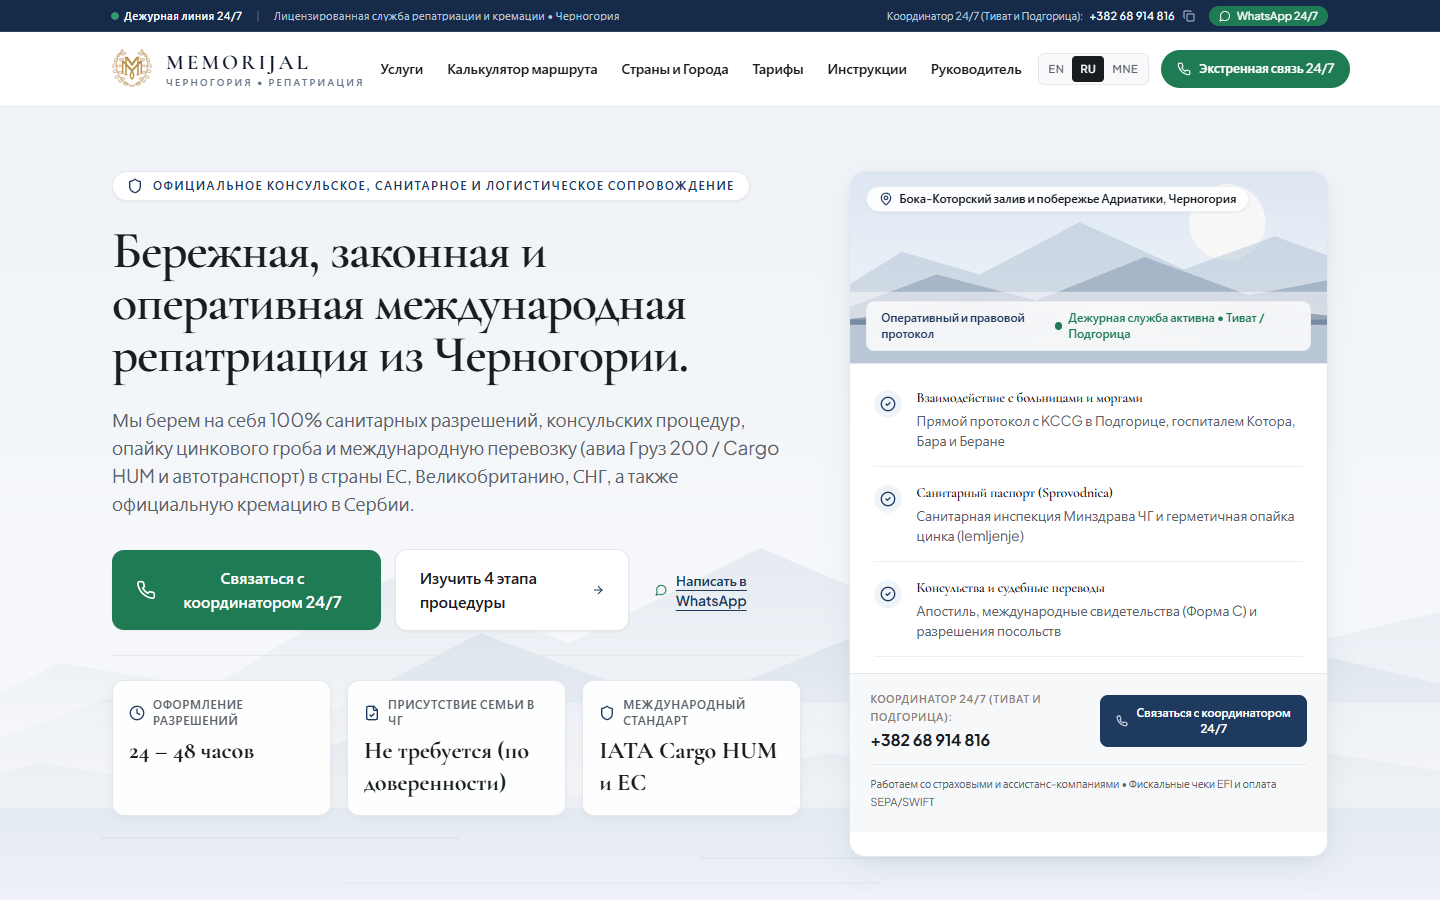
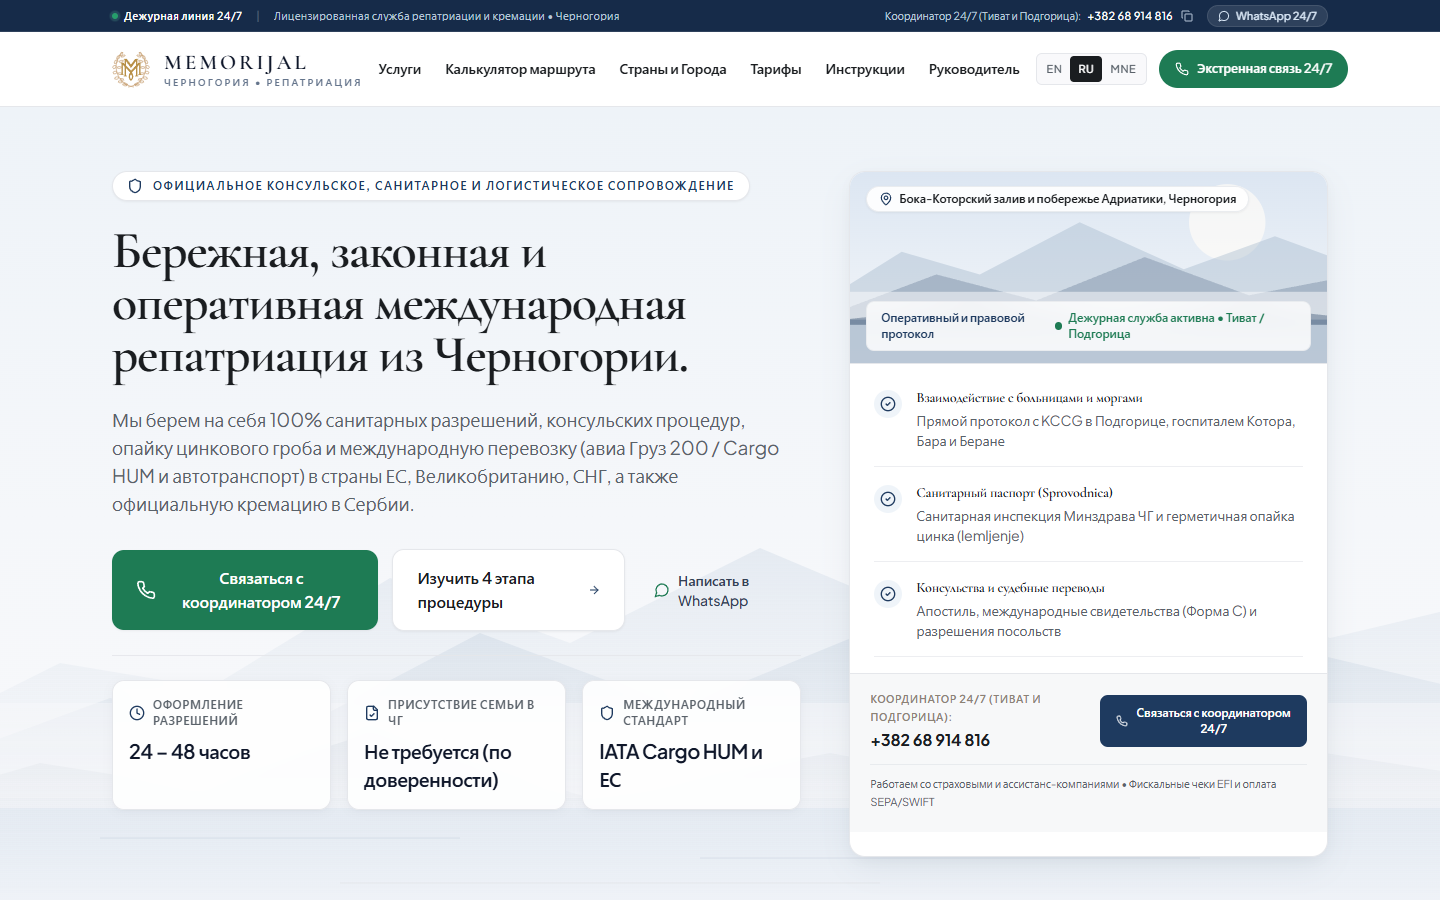
feat: add Hero and Navbar components with localized translations and audit snapshots

diff --git a/src/components/Hero.tsx b/src/components/Hero.tsx
@@ -157,10 +157,10 @@ export const Hero: React.FC<HeroProps> = ({ lang, t, onOpenModal }) => {
                 href={whatsappUrl}
                 target="_blank"
                 rel="noopener noreferrer"
-                className="inline-flex items-center justify-center gap-2 text-sm font-semibold text-sapphire hover:text-sapphire-light px-3 py-3 transition-colors"
+                className="inline-flex items-center justify-center gap-2 text-slate-700 hover:text-forest text-sm font-medium transition-colors px-3.5 py-3.5 rounded-xl hover:bg-slate-100/70 border border-transparent hover:border-stoneBorder no-underline"
               >
-                <MessageCircle className="w-4 h-4 text-forest" />
-                <span className="underline underline-offset-4">{t.hero.whatsappDirect}</span>
+                <MessageCircle className="w-4 h-4 text-forest shrink-0" />
+                <span>{t.hero.whatsappDirect}</span>
               </a>
             </div>
 
@@ -171,9 +171,9 @@ export const Hero: React.FC<HeroProps> = ({ lang, t, onOpenModal }) => {
                   <Clock className="w-4 h-4 text-sapphire shrink-0" />
                   <span>{t.hero.trustMetrics.timeLabel}</span>
                 </div>
-                <p className="mt-1.5 font-serif text-2xl font-bold text-slateDeep">
+                <div className="mt-2 font-sans font-semibold text-slate-900 text-lg sm:text-xl tracking-tight leading-tight">
                   {t.hero.trustMetrics.timeValue}
-                </p>
+                </div>
               </div>
 
               <div className="bg-white/90 backdrop-blur-sm p-4 rounded-xl border border-stoneBorder shadow-card">
@@ -181,9 +181,9 @@ export const Hero: React.FC<HeroProps> = ({ lang, t, onOpenModal }) => {
                   <FileCheck className="w-4 h-4 text-sapphire shrink-0" />
                   <span>{t.hero.trustMetrics.presenceLabel}</span>
                 </div>
-                <p className="mt-1.5 font-serif text-2xl font-bold text-slateDeep">
+                <div className="mt-2 font-sans font-semibold text-slate-900 text-lg sm:text-xl tracking-tight leading-tight">
                   {t.hero.trustMetrics.presenceValue}
-                </p>
+                </div>
               </div>
 
               <div className="bg-white/90 backdrop-blur-sm p-4 rounded-xl border border-stoneBorder shadow-card">
@@ -191,9 +191,9 @@ export const Hero: React.FC<HeroProps> = ({ lang, t, onOpenModal }) => {
                   <Shield className="w-4 h-4 text-sapphire shrink-0" />
                   <span>{t.hero.trustMetrics.complianceLabel}</span>
                 </div>
-                <p className="mt-1.5 font-serif text-2xl font-bold text-slateDeep">
+                <div className="mt-2 font-sans font-semibold text-slate-900 text-lg sm:text-xl tracking-tight leading-tight">
                   {t.hero.trustMetrics.complianceValue}
-                </p>
+                </div>
               </div>
             </div>
           </div>

diff --git a/src/components/Navbar.tsx b/src/components/Navbar.tsx
@@ -177,7 +177,7 @@ export const Navbar: React.FC<NavbarProps> = ({
               href={whatsappUrl}
               target="_blank"
               rel="noopener noreferrer"
-              className="inline-flex items-center gap-1.5 bg-[#1E7B54] hover:bg-[#176343] text-white font-medium px-2.5 py-1 rounded-full text-[11px] leading-none transition-colors shadow-sm"
+              className="inline-flex items-center gap-1.5 bg-white/10 hover:bg-white/20 text-[#D8E6F5] hover:text-white font-medium px-2.5 py-1 rounded-full text-[11px] leading-none transition-colors border border-white/10"
             >
               <MessageCircle className="w-3 h-3 shrink-0" />
               <span>WhatsApp 24/7</span>
@@ -193,9 +193,9 @@ export const Navbar: React.FC<NavbarProps> = ({
           <a
             href={homePath}
             onClick={(e) => handleAnchorOrRoute(e, '#top')}
-            className="flex items-center gap-3 md:gap-3.5 select-none group focus:outline-none shrink-0"
+            className="flex items-center gap-2.5 sm:gap-3 md:gap-3.5 select-none group focus:outline-none shrink-0"
           >
-            <div className="relative flex items-center justify-center shrink-0 w-9 h-9 md:w-10 md:h-10">
+            <div className="relative flex items-center justify-center shrink-0 w-[34px] h-[34px] md:w-[38px] md:h-[38px]">
               <img
                 src="/assets/branding/emblem-crest.svg"
                 alt={
@@ -205,16 +205,16 @@ export const Navbar: React.FC<NavbarProps> = ({
                     ? 'Memorijal Grb'
                     : 'Memorijal d.o.o. Crest'
                 }
-                width={40}
-                height={40}
+                width={38}
+                height={38}
                 loading="eager"
                 fetchPriority="high"
                 decoding="async"
-                className="w-full h-full object-contain -translate-y-[1px] transition-opacity duration-200 group-hover:opacity-90"
+                className="w-full h-full object-contain translate-y-[0.5px] transition-opacity duration-200 group-hover:opacity-90"
               />
             </div>
             <div className="flex flex-col justify-center">
-              <span className="font-serif text-[19px] md:text-[21px] tracking-[0.14em] font-semibold text-slate-900 leading-none">
+              <span className="font-serif text-[18px] sm:text-[19px] md:text-[21px] tracking-[0.14em] font-semibold text-slate-900 leading-none">
                 MEMORIJAL
               </span>
               <span className="text-[9px] md:text-[10px] tracking-[0.22em] text-slate-500 uppercase font-sans font-medium mt-1 leading-none">
